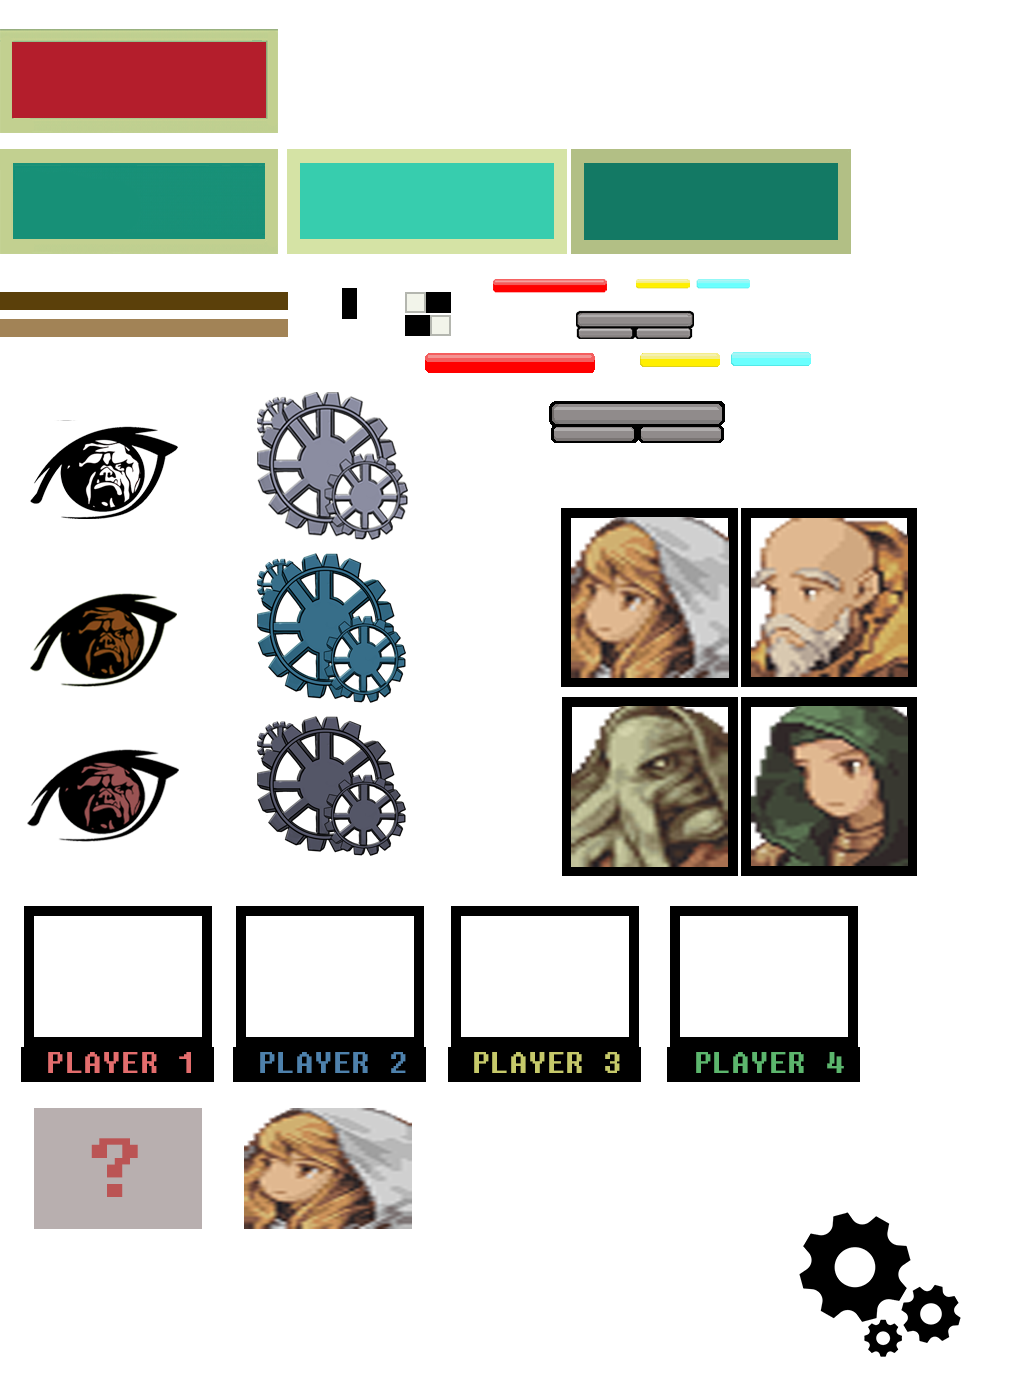
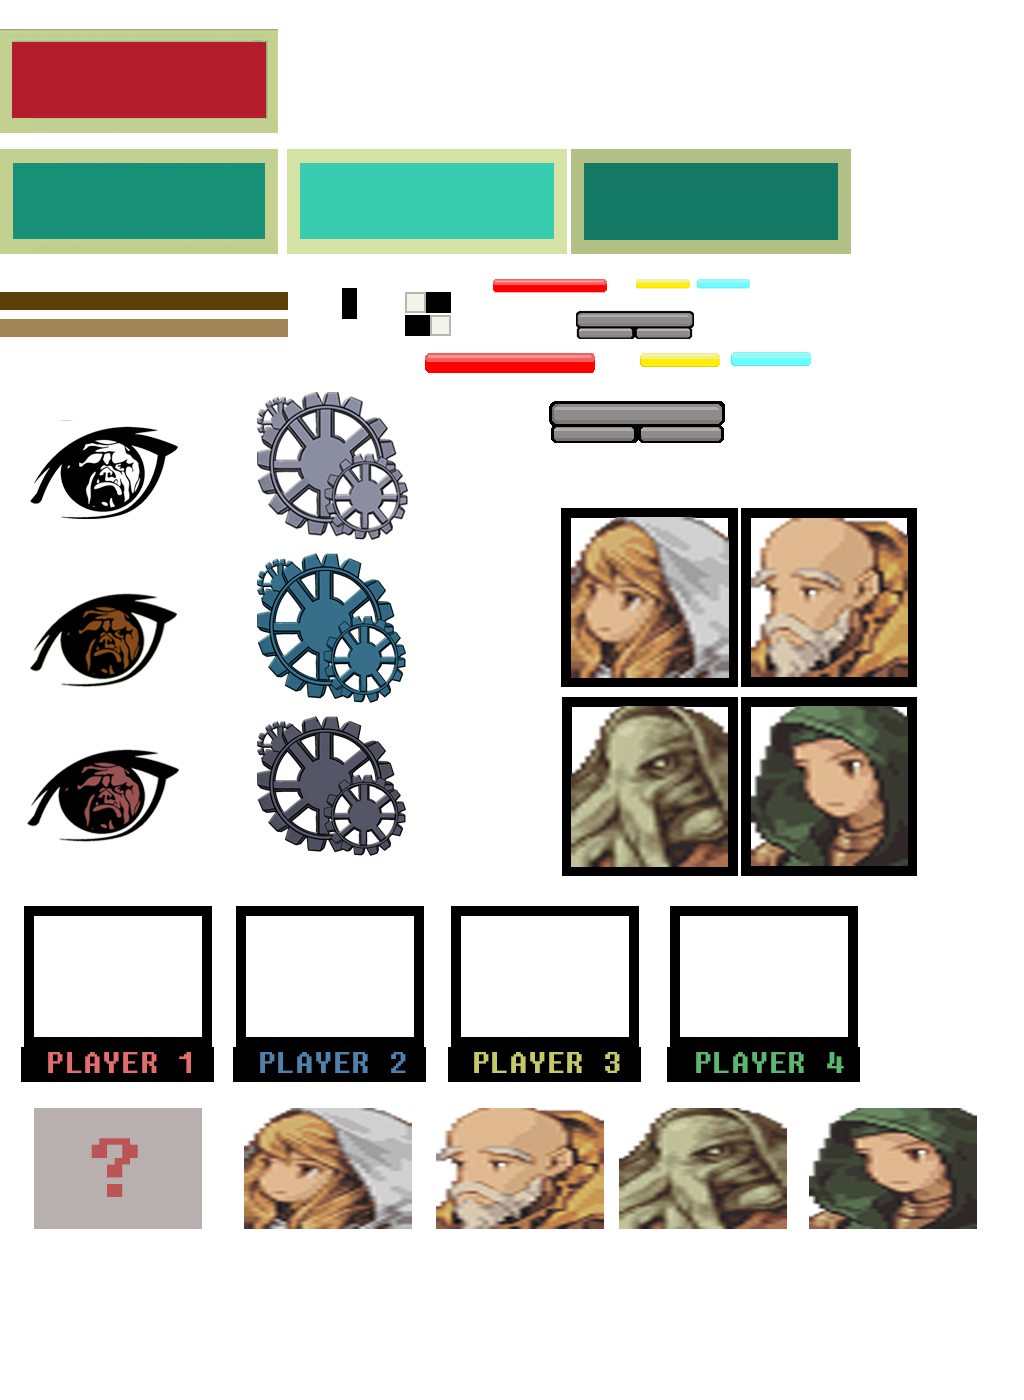
Advancing on new champ selection(WIP)

Changed region(s): [[0.4062, 0.7679, 0.9688, 0.9829]]

diff --git a/FantasyBrawl_Project/Motor2D/j1UIScene.cpp b/FantasyBrawl_Project/Motor2D/j1UIScene.cpp
@@ -260,15 +260,30 @@ bool j1UIScene::Start()
 		UI_element* player4_quad = App->gui->createImageFromAtlas(20, 560, { 666, 904,200,180 }, this);
 
 		//ARROWS
-		UI_element* arrow = App->gui->createButton(230 * App->gui->UI_scale, 100 * App->gui->UI_scale, NULL, { 341,287,16,32 }, { 341,287,16,32 }, { 341,287,16,32 }, this);
-		arrow->function = SELECTING;
+		UI_element* arrow1 = App->gui->createButton(230 * App->gui->UI_scale, 100 * App->gui->UI_scale, NULL, { 341,287,16,32 }, { 341,287,16,32 }, { 341,287,16,32 }, this);
+		arrow1->function = SELECTING1;
+
+		UI_element* arrow2 = App->gui->createButton(230 * App->gui->UI_scale, 200 * App->gui->UI_scale, NULL, { 341,287,16,32 }, { 341,287,16,32 }, { 341,287,16,32 }, this);
+		arrow2->function = SELECTING2;
+
+		UI_element* arrow3 = App->gui->createButton(230 * App->gui->UI_scale, 300 * App->gui->UI_scale, NULL, { 341,287,16,32 }, { 341,287,16,32 }, { 341,287,16,32 }, this);
+		arrow3->function = SELECTING3;
+
+		UI_element* arrow4 = App->gui->createButton(230 * App->gui->UI_scale, 400 * App->gui->UI_scale, NULL, { 341,287,16,32 }, { 341,287,16,32 }, { 341,287,16,32 }, this);
+		arrow4->function = SELECTING4;
 
 		//PLAYER IMAGE(?)
 		mark1 = App->gui->createImageFromAtlas(35, 31, { 33, 1107, 169,122 }, this);
 		photos[0] = mark1;
 		
-		
-		mark2 = App->gui->createImageFromAtlas(293, 591, { 243, 1107, 169,122 }, this);
+		mark2 = App->gui->createImageFromAtlas(33, 211, { 33, 1107, 169,122 }, this);
+		photos[1] = mark2;
+
+		mark3 = App->gui->createImageFromAtlas(33, 391, { 33, 1107, 169,122 }, this);
+		photos[2] = mark3;
+
+		mark4 = App->gui->createImageFromAtlas(33, 571, { 33, 1107, 169,122 }, this);
+		photos[3] = mark4;
 		/*photos[1] = mark2;*/
 		/*mark3 = App->gui->createImageFromAtlas(552, 591, { 33, 1107, 169,122 }, this);
 		mark4 = App->gui->createImageFromAtlas(812, 591, { 33, 1107, 169,122 }, this);*/
@@ -277,6 +292,7 @@ bool j1UIScene::Start()
 		//READY BUTTON
 		ready = App->gui->createButton(700 * App->gui->UI_scale, 330 * App->gui->UI_scale, NULL, { 0,28,278,105 }, { 0,28,278,105 }, { 0,28,278,105 }, this);//{ 281,148,281,111 }, { 562,148,281,111 }
 		ready_text = App->gui->createText("READY", 780, 350, big_buttons_font, black_color);
+		
 
 		championSelection->elements.push_back(selection_image);
 		championSelection->elements.push_back(selection_text);
@@ -290,11 +306,14 @@ bool j1UIScene::Start()
 		championSelection->elements.push_back(player4_quad);
 		championSelection->elements.push_back(mark1);
 		championSelection->elements.push_back(mark2);
-		/*championSelection->elements.push_back(mark3);
-		championSelection->elements.push_back(mark4);*/
+		championSelection->elements.push_back(mark3);
+		championSelection->elements.push_back(mark4);
 		championSelection->elements.push_back(ready);
 		championSelection->elements.push_back(ready_text);
-		championSelection->elements.push_back(arrow);
+		championSelection->elements.push_back(arrow1);
+		championSelection->elements.push_back(arrow2);
+		championSelection->elements.push_back(arrow3);
+		championSelection->elements.push_back(arrow4);
 		menus.push_back(championSelection);
 	}
 
@@ -534,27 +553,101 @@ bool j1UIScene::Update(float dt)
 	shield_bar4->localPosition.x = App->scene->player4->Entityinfo.position.x - (int)(App->scene->player4->Entityinfo.entitycoll->rect.w * 3.5f  * scale) + 88;
 	shield_bar4->localPosition.y = App->scene->player4->Entityinfo.position.y - 59;
 
-
-	if(passing1)
+	//SELECTION LOGIC
+	if(passing1 && player1_select == false)
 	{
-		if (counter == 1)
+		if (counter1 == 1)
 			photos[0]->section = { 243, 1107, 169,122 };
 
-		if (counter == 2)
-			photos[0]->section = { 740,507,180,180 };
+		if (counter1 == 2)
+			photos[0]->section = { 435,1107,169,122 };
 
-		if (counter == 3)
-			photos[0]->section = { 560,696,180,180 };
+		if (counter1 == 3)
+			photos[0]->section = { 618,1107,169,122 };
 
-		if (counter == 4)
-			photos[0]->section = { 740,696,180,180 };
+		if (counter1 == 4)
+			photos[0]->section = { 808,1107,169,122 };
 
-		if (counter > 4)//again to wendolin
+		if (counter1 > 4)//again to wendolin
 		{
-			counter = 1;
+			counter1 = 1;
 		}
 	
+		//IF PLAYER1 INPUT A GAMEPAD, passing1 = false && player1_select = true
 		
+		
+	}
+
+	if (passing2 && player2_select == false)
+	{
+		if (counter2 == 1)
+			photos[1]->section = { 243, 1107, 169,122 };
+
+		if (counter2 == 2)
+			photos[1]->section = { 435,1107,169,122 };
+
+		if (counter2 == 3)
+			photos[1]->section = { 618,1107,169,122 };
+
+		if (counter2 == 4)
+			photos[1]->section = { 808,1107,169,122 };
+
+		if (counter2 > 4)//again to wendolin
+		{
+			counter2 = 1;
+		}
+
+		//IF PLAYER2 INPUT A GAMEPAD, passing2 = false && player2_select = true
+
+
+	}
+
+	if (passing3 && player3_select == false)
+	{
+		if (counter3 == 1)
+			photos[2]->section = { 243, 1107, 169,122 };
+
+		if (counter3 == 2)
+			photos[2]->section = { 435,1107,169,122 };
+
+		if (counter3 == 3)
+			photos[2]->section = { 618,1107,169,122 };
+
+		if (counter3 == 4)
+			photos[2]->section = { 808,1107,169,122 };
+
+		if (counter3 > 4)//again to wendolin
+		{
+			counter3 = 1;
+		}
+
+		//IF PLAYER3 INPUT A GAMEPAD, passing3 = false && player3_select = true
+
+
+	}
+
+	if (passing4 && player4_select == false)
+	{
+		if (counter4 == 1)
+			photos[3]->section = { 243, 1107, 169,122 };
+
+		if (counter4 == 2)
+			photos[3]->section = { 435,1107,169,122 };
+
+		if (counter4 == 3)
+			photos[3]->section = { 618,1107,169,122 };
+
+		if (counter4 == 4)
+			photos[3]->section = { 808,1107,169,122 };
+
+		if (counter4 > 4)//again to wendolin
+		{
+			counter4 = 1;
+		}
+
+		//IF PLAYER4 INPUT A GAMEPAD, passing4 = false && player4_select = true
+
+
 	}
 	
 	/*if (player1_select == true)
@@ -677,7 +770,7 @@ bool j1UIScene::OnUIEvent(UI_element* element, event_type event_type)
 			App->audio->PlayFx(App->audio->fxConfirm);
 
 			//RESET SELECTION BOOLS && COUNTER
-			counter = 0;
+			counter1 = 0;
 			player1_select = false;
 			player2_select = false;
 			player3_select = false;
@@ -727,11 +820,12 @@ bool j1UIScene::OnUIEvent(UI_element* element, event_type event_type)
 		
 			break;
 		}
-		case SELECTING:
+		case SELECTING1:
 		{	
 			passing1 = true;
-			counter++;
+			counter1++;
 			
+
 			/*counter++;
 
 			if (counter == 1)
@@ -753,6 +847,27 @@ bool j1UIScene::OnUIEvent(UI_element* element, event_type event_type)
 
 			if (counter <= 4)
 				App->audio->PlayFx(App->audio->fxConfirmChamp);*/
+
+			break;
+		}
+		case SELECTING2:
+		{
+			passing2 = true;
+			counter2++;
+
+			break;
+		}
+		case SELECTING3:
+		{
+			passing3 = true;
+			counter3++;
+
+			break;
+		}
+		case SELECTING4:
+		{
+			passing4 = true;
+			counter4++;
 
 			break;
 		}

diff --git a/FantasyBrawl_Project/Motor2D/j1UIScene.h b/FantasyBrawl_Project/Motor2D/j1UIScene.h
@@ -127,12 +127,19 @@ public:
 
 	UI_element* photos[4];
 	bool passing1 = false;
+	bool passing2 = false;
+	bool passing3 = false;
+	bool passing4 = false;
+
 	//READY
 	UI_element* ready = nullptr;
 	UI_element* ready_text = nullptr;
 
 	//SELECTION BOOLS
-	int counter = 0;
+	int counter1 = 0;
+	int counter2 = 0;
+	int counter3 = 0;
+	int counter4 = 0;
 	bool player1_select = false;
 	bool player2_select = false;
 	bool player3_select = false;

diff --git a/FantasyBrawl_Project/Motor2D/UI_element.h b/FantasyBrawl_Project/Motor2D/UI_element.h
@@ -28,7 +28,10 @@ enum element_function
 	NONE,
 	NEW_GAME,
 	INGAME,
-	SELECTING,
+	SELECTING1,
+	SELECTING2,
+	SELECTING3,
+	SELECTING4,
 	CONTINUE,
 	SETTINGS,
 	CREDITS,
